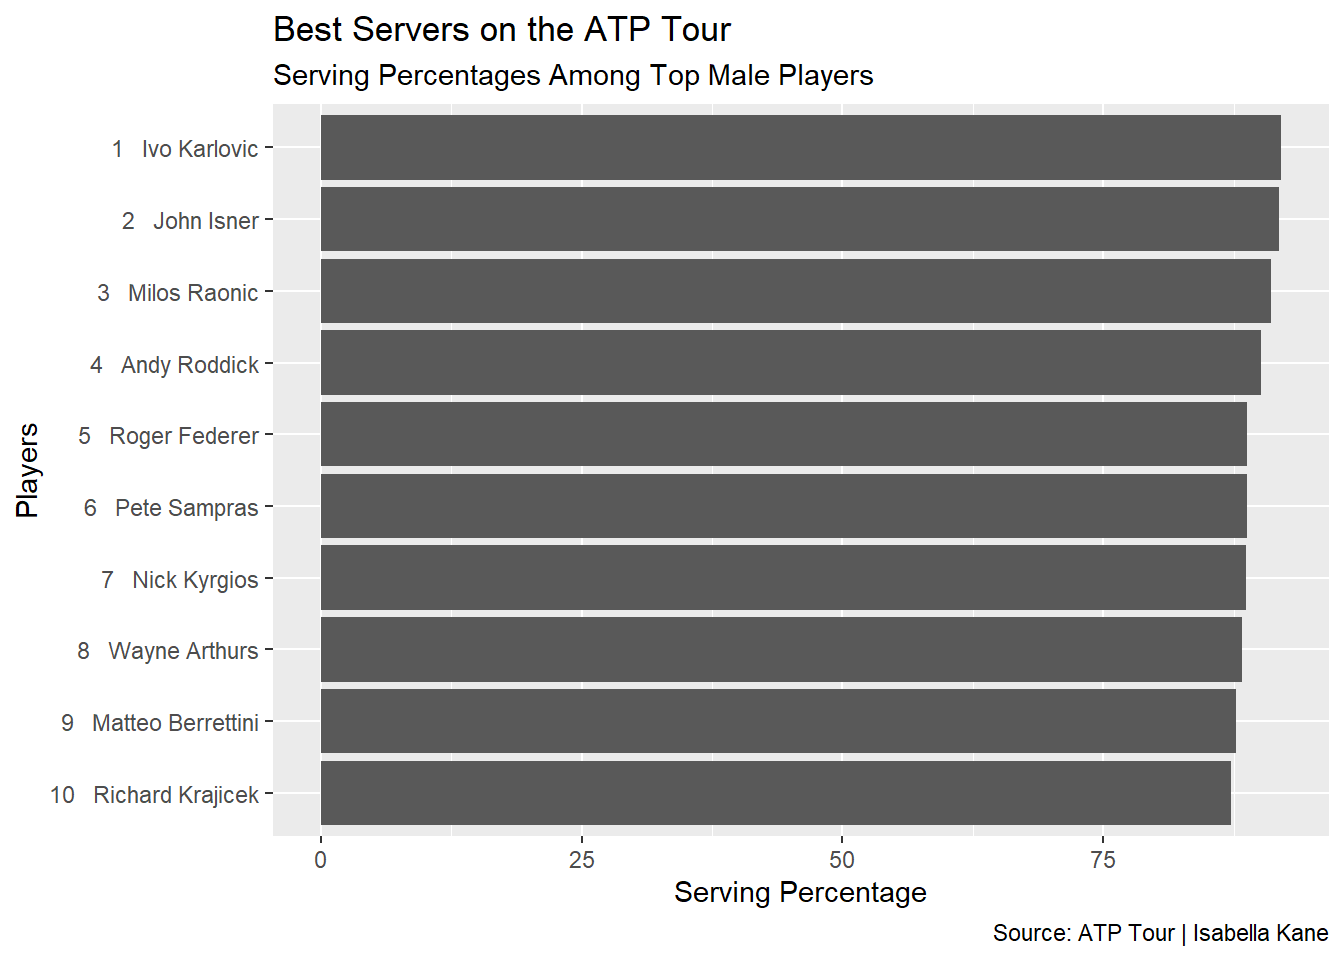
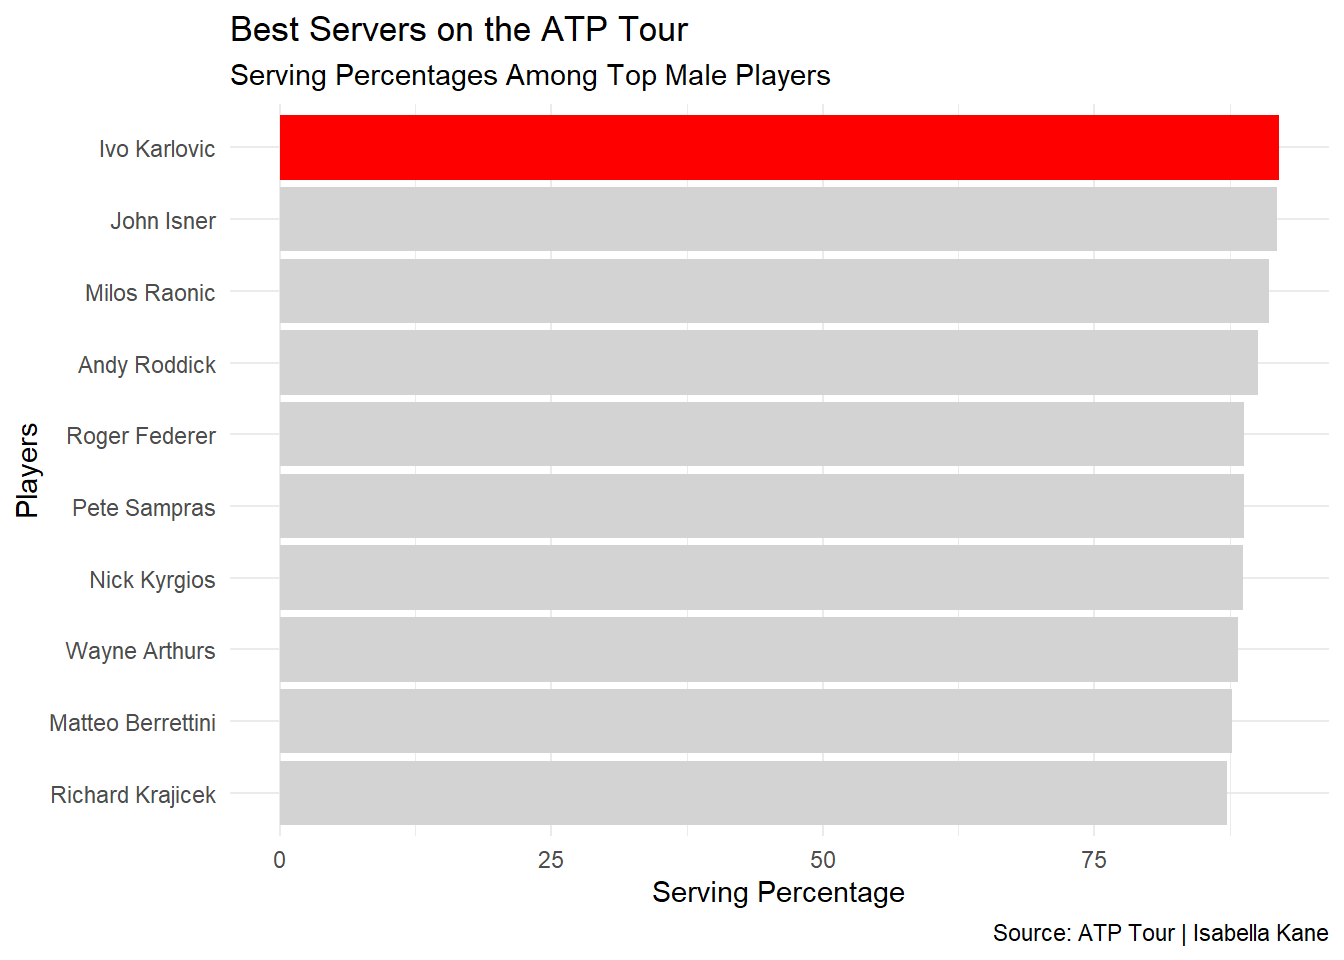
Major Assignment

diff --git a/MAJOR ASSIGNMENT.html b/MAJOR ASSIGNMENT.html
@@ -178,11 +178,11 @@ pre > code.sourceCode > span > a:first-child::before { text-decoration: underlin
 </div>
 <div class="sourceCode cell-code" id="cb3"><pre class="sourceCode r code-with-copy"><code class="sourceCode r"><span id="cb3-1"><a href="#cb3-1" aria-hidden="true" tabindex="-1"></a>serves <span class="ot">&lt;-</span> <span class="fu">read_csv</span>(<span class="st">"~/350/bloggy/Tennis Serves - Sheet1 (2).csv"</span>)</span></code><button title="Copy to Clipboard" class="code-copy-button"><i class="bi"></i></button></pre></div>
 <div class="cell-output cell-output-stderr">
-<pre><code>Rows: 10 Columns: 6
+<pre><code>Rows: 10 Columns: 7
 ── Column specification ────────────────────────────────────────────────────────
 Delimiter: ","
 chr (2): Player, Country
-dbl (1): Percentage
+dbl (2): Rank, Percentage
 num (3): Games Won, Total Games, Matches
 
 ℹ Use `spec()` to retrieve the full column specification for this data.
@@ -193,16 +193,21 @@ num (3): Games Won, Total Games, Matches
 <span id="cb5-3"><a href="#cb5-3" aria-hidden="true" tabindex="-1"></a>    <span class="st">`</span><span class="at">Games Won</span><span class="st">`</span> <span class="ot">=</span> Percentage<span class="sc">/</span> <span class="st">`</span><span class="at">Total Games</span><span class="st">`</span></span>
 <span id="cb5-4"><a href="#cb5-4" aria-hidden="true" tabindex="-1"></a>  )</span>
 <span id="cb5-5"><a href="#cb5-5" aria-hidden="true" tabindex="-1"></a></span>
-<span id="cb5-6"><a href="#cb5-6" aria-hidden="true" tabindex="-1"></a><span class="fu">ggplot</span>() <span class="sc">+</span> </span>
-<span id="cb5-7"><a href="#cb5-7" aria-hidden="true" tabindex="-1"></a>  <span class="fu">geom_bar</span>(<span class="at">data=</span>players, <span class="fu">aes</span>(<span class="at">x=</span><span class="fu">reorder</span>(Player, Percentage), <span class="at">weight=</span>Percentage)) <span class="sc">+</span></span>
-<span id="cb5-8"><a href="#cb5-8" aria-hidden="true" tabindex="-1"></a>  <span class="fu">coord_flip</span>() <span class="sc">+</span></span>
-<span id="cb5-9"><a href="#cb5-9" aria-hidden="true" tabindex="-1"></a>   <span class="fu">labs</span>(</span>
-<span id="cb5-10"><a href="#cb5-10" aria-hidden="true" tabindex="-1"></a>    <span class="at">x=</span><span class="st">"Players"</span>, </span>
-<span id="cb5-11"><a href="#cb5-11" aria-hidden="true" tabindex="-1"></a>    <span class="at">y=</span><span class="st">"Serving Percentage"</span>, </span>
-<span id="cb5-12"><a href="#cb5-12" aria-hidden="true" tabindex="-1"></a>    <span class="at">title=</span><span class="st">"Best Servers on the ATP Tour"</span>, </span>
-<span id="cb5-13"><a href="#cb5-13" aria-hidden="true" tabindex="-1"></a>    <span class="at">subtitle=</span><span class="st">"Serving Percentages Among Top Male Players"</span>, </span>
-<span id="cb5-14"><a href="#cb5-14" aria-hidden="true" tabindex="-1"></a>    <span class="at">caption=</span><span class="st">"Source: ATP Tour | Isabella Kane"</span></span>
-<span id="cb5-15"><a href="#cb5-15" aria-hidden="true" tabindex="-1"></a>    )</span></code><button title="Copy to Clipboard" class="code-copy-button"><i class="bi"></i></button></pre></div>
+<span id="cb5-6"><a href="#cb5-6" aria-hidden="true" tabindex="-1"></a>ik <span class="ot">&lt;-</span> players <span class="sc">|&gt;</span></span>
+<span id="cb5-7"><a href="#cb5-7" aria-hidden="true" tabindex="-1"></a>  <span class="fu">filter</span>(Player <span class="sc">==</span> <span class="st">"Ivo Karlovic"</span>)</span>
+<span id="cb5-8"><a href="#cb5-8" aria-hidden="true" tabindex="-1"></a></span>
+<span id="cb5-9"><a href="#cb5-9" aria-hidden="true" tabindex="-1"></a><span class="fu">ggplot</span>() <span class="sc">+</span> </span>
+<span id="cb5-10"><a href="#cb5-10" aria-hidden="true" tabindex="-1"></a>  <span class="fu">geom_bar</span>(<span class="at">data=</span>players, <span class="fu">aes</span>(<span class="at">x=</span><span class="fu">reorder</span>(Player, Percentage), <span class="at">weight=</span>Percentage), <span class="at">fill=</span><span class="st">"light grey"</span>) <span class="sc">+</span></span>
+<span id="cb5-11"><a href="#cb5-11" aria-hidden="true" tabindex="-1"></a>  <span class="fu">geom_bar</span>(<span class="at">data=</span>ik, <span class="fu">aes</span>(<span class="at">x=</span><span class="fu">reorder</span>(Player, Percentage), <span class="at">weight=</span>Percentage), <span class="at">fill=</span><span class="st">"red"</span>) <span class="sc">+</span></span>
+<span id="cb5-12"><a href="#cb5-12" aria-hidden="true" tabindex="-1"></a>  <span class="fu">theme_minimal</span>() <span class="sc">+</span></span>
+<span id="cb5-13"><a href="#cb5-13" aria-hidden="true" tabindex="-1"></a>  <span class="fu">coord_flip</span>() <span class="sc">+</span></span>
+<span id="cb5-14"><a href="#cb5-14" aria-hidden="true" tabindex="-1"></a>   <span class="fu">labs</span>(</span>
+<span id="cb5-15"><a href="#cb5-15" aria-hidden="true" tabindex="-1"></a>    <span class="at">x=</span><span class="st">"Players"</span>, </span>
+<span id="cb5-16"><a href="#cb5-16" aria-hidden="true" tabindex="-1"></a>    <span class="at">y=</span><span class="st">"Serving Percentage"</span>, </span>
+<span id="cb5-17"><a href="#cb5-17" aria-hidden="true" tabindex="-1"></a>    <span class="at">title=</span><span class="st">"Best Servers on the ATP Tour"</span>, </span>
+<span id="cb5-18"><a href="#cb5-18" aria-hidden="true" tabindex="-1"></a>    <span class="at">subtitle=</span><span class="st">"Serving Percentages Among Top Male Players"</span>, </span>
+<span id="cb5-19"><a href="#cb5-19" aria-hidden="true" tabindex="-1"></a>    <span class="at">caption=</span><span class="st">"Source: ATP Tour | Isabella Kane"</span></span>
+<span id="cb5-20"><a href="#cb5-20" aria-hidden="true" tabindex="-1"></a>    )</span></code><button title="Copy to Clipboard" class="code-copy-button"><i class="bi"></i></button></pre></div>
 <div class="cell-output-display">
 <p><img src="MAJOR-ASSIGNMENT_files/figure-html/unnamed-chunk-1-1.png" class="img-fluid" width="672"></p>
 </div>
